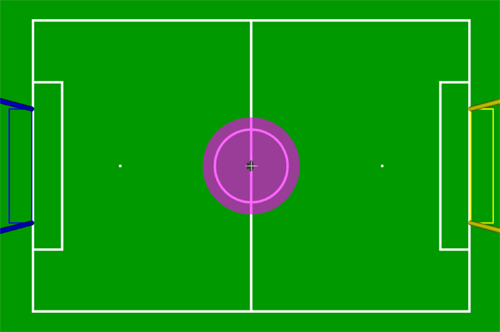
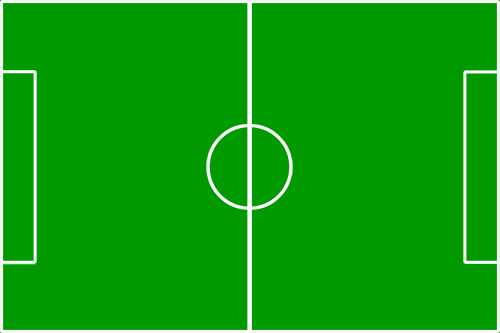
Update field display to render center field lines on the canvas.

Changed region(s): [[0.0, 0.0, 1.0, 1.0]]

diff --git a/public/app/view/dashboard/panel/field/FieldController.js b/public/app/view/dashboard/panel/field/FieldController.js
@@ -6,8 +6,13 @@ Ext.define('NU.view.dashboard.panel.field.FieldController', {
 	alias: 'controller.DashboardPanelField',
 	init: function () {
 		var view = this.getView();
+		//this.field = view;
 		this.canvas = view.lookupReference('canvas');
 		this.context = null;
+		this.fieldLine = {
+			color: 'white',
+			width: 3
+		};
 		this.robot = {
 			radius: 6
 		};
@@ -33,9 +38,49 @@ Ext.define('NU.view.dashboard.panel.field.FieldController', {
 	 * @param height The new height of the component.
 	 */
 	onResize: function (component, width, height) {
-		var canvas = this.canvas.getEl().dom;
+		this.setSize(this.canvas.getEl().dom, width, height);
+	},
+
+	/**
+	 * Set the size of the canvas to the specified width and height.
+	 *
+	 * @param canvas The canvas dom element.
+	 * @param width The new width of the canvas.
+	 * @param height The new height of the canvas.
+	 */
+	setSize: function (canvas, width, height) {
 		canvas.width = width;
 		canvas.height = height;
+	},
+
+	drawField: function (context) {
+		var canvas = context.canvas;
+		var width = canvas.width;
+		var height = canvas.height;
+		this.drawCentreCircle(context, width, height);
+		this.drawCentreLine(context, width, height);
+	},
+
+
+	drawCentreCircle: function (context, width, height) {
+		var position = this.worldToScreen(vec2.create());
+		var radius = (Field.constants.CENTER_CIRCLE_DIAMETER * 0.5);
+		var radiusX = Math.round(radius  * (width / Field.constants.FIELD_LENGTH));
+		var radiusY = Math.round(radius * (height / Field.constants.FIELD_WIDTH));
+		this.drawEllipse(context, position, radiusX, radiusY, 'transparent', this.fieldLine.color, this.fieldLine.width);
+	},
+
+	/**
+	 * A method that draws the centre vertical line of the field given the canvas context, width, height and line
+	 * width.
+	 *
+	 * @param context The canvas context.
+	 * @param width The width of the canvas.
+	 * @param height The height of the canvas.
+	 * @param lineWidth The width of the line.
+	 */
+	drawCentreLine: function (context, width, height, lineWidth) {
+		this.drawLine(context, vec2.fromValues(width * 0.5, 0), vec2.fromValues(width * 0.5, height), this.fieldLine.color, this.fieldLine.width);
 	},
 
 	/**
@@ -59,6 +104,8 @@ Ext.define('NU.view.dashboard.panel.field.FieldController', {
 			ballPosition = vec2.fromValues(ballPosition.x, ballPosition.y);
 			// Convert the robot heading to world space.
 			robotHeading = this.localToWorld(robotPosition, robotHeading);
+			// Draw the field.
+			this.drawField(context);
 			// Draw the robot and the ball on the field.
 			this.drawRobot(context, robotPosition, robotHeading);
 			this.drawBall(context, ballPosition);
@@ -103,12 +150,28 @@ Ext.define('NU.view.dashboard.panel.field.FieldController', {
 	 * @param radius The radius of the circle.
 	 * @param fillColor The color of the circle.
 	 * @param [strokeColor] An optional stroke color.
+	 * @param [lineWidth] An optional line width.
 	 */
-	drawCircle: function (context, position, radius, fillColor, strokeColor) {
+	drawCircle: function (context, position, radius, fillColor, strokeColor, lineWidth) {
+		this.drawEllipse(context, position, radius, radius, fillColor, strokeColor, lineWidth);
+	},
+
+	/**
+	 * Draws an ellipse in the specified canvas context using a screen position, radius and fill color.
+	 *
+	 * @param context The canvas context.
+	 * @param position The position to draw the ellipse on.
+	 * @param radiusX The radius of the ellipse in the x direction.
+	 * @param radiusY The radius of teh sllipse in the y direction.
+	 * @param fillColor The color of the ellipse.
+	 * @param [strokeColor] An optional stroke color.
+	 * @param [lineWidth] An optional line width.
+	 */
+	drawEllipse: function (context, position, radiusX, radiusY, fillColor, strokeColor, lineWidth) {
 		context.beginPath();
-		context.arc(position[0], position[1], radius, 0, Math.PI * 2);
+		context.ellipse(position[0], position[1], radiusX, radiusY, 0, 0, Math.PI * 2);
 		context.fillStyle = fillColor;
-		context.lineWidth = 1;
+		context.lineWidth = lineWidth || 1;
 		context.fill();
 		if (strokeColor) {
 			context.strokeStyle = strokeColor;
@@ -123,13 +186,14 @@ Ext.define('NU.view.dashboard.panel.field.FieldController', {
 	 * @param origin The point to begin the line at.
 	 * @param target The point to end the line at.
 	 * @param strokeColor The color of the line.
+	 * @param [lineWidth] The width of the line.
 	 */
-	drawLine: function (context, origin, target, strokeColor) {
+	drawLine: function (context, origin, target, strokeColor, lineWidth) {
 		context.beginPath();
 		context.moveTo(origin[0], origin[1]);
 		context.lineTo(target[0], target[1]);
 		context.strokeStyle = strokeColor;
-		context.lineWidth = 2;
+		context.lineWidth = lineWidth || 2;
 		context.stroke();
 	},
 

diff --git a/public/app/view/dashboard/panel/DashboardPanelController.js b/public/app/view/dashboard/panel/DashboardPanelController.js
@@ -75,11 +75,13 @@ Ext.define('NU.view.dashboard.panel.DashboardPanelController', {
 		this.getViewModel().set('currentTime', Date.now());
 	},
 
+	/**
+	 * An event triggered when the user chooses to toggles which localisation display is visible.
+	 */
 	onToggleLocalisation: function () {
 		var viewModel = this.getViewModel();
 		// Toggle the localisation attribute on the view model.
 		viewModel.set('localisation', !viewModel.get('localisation'));
-
 	}
 
 });

diff --git a/public/app/view/dashboard/panel/field/Field.js b/public/app/view/dashboard/panel/field/Field.js
@@ -9,12 +9,10 @@ Ext.define('NU.view.dashboard.panel.field.Field', {
 		'NU.view.dashboard.panel.field.FieldController'
 	],
 	controller: 'DashboardPanelField',
-	width: '100%',
 	height: 100,
 	layout: 'fit',
 	style: {
-		background: 'url("../resources/images/field.png") no-repeat',
-		backgroundSize: '100% 100%'
+		background: '#009900'
 	},
 	listeners: {
 		afterRender: 'onAfterRender',
